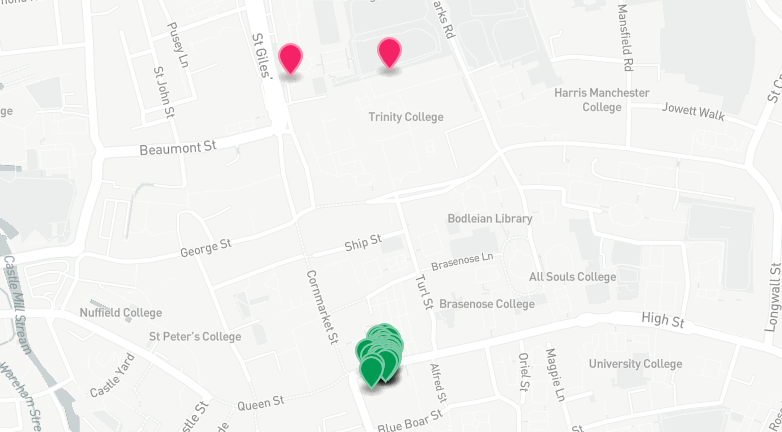
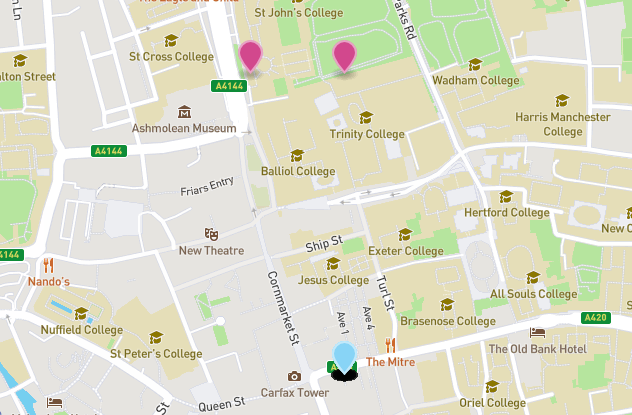
update map post

diff --git a/content/post/interactive-map-howto/index.md b/content/post/interactive-map-howto/index.md
@@ -28,25 +28,23 @@ image:
 projects: []
 ---
 
-Recently, I've been involved with the [AncientMetagenomeDir](https://github.com/spaam-community/ancientMetagenomeDir) project. Briefly, with this collaborative community effort, we aimed to regroup in one single repository, all the metadata about every single published ancient DNA metagenomics article, and make them [FAIR](https://en.wikipedia.org/wiki/FAIR_data).
+Recently, I've been involved with the [AncientMetagenomeDir](https://github.com/spaam-community/ancientMetagenomeDir) project. Briefly, with this collaborative community effort, we aimed to regroup in one single repository, all the metadata about every single published ancient DNA metagenomics article, and turn them into [FAIR](https://en.wikipedia.org/wiki/FAIR_data) scientific data.
 
-We ended with large `TSV` table files regrouping a standardized set of metadata, about each ancient DNA metagenomics sample. Because these are originally archeological data, one the information that is systematically collected is the geographical location of each sample.
+We ended with large `TSV` (table) files regrouping a standardized set of metadata, about each ancient DNA metagenomics sample. Because these are originally archeological data, one of the information that is systematically collected is the geographical location of each sample.
 
 While static maps were already generated for the [AncientMegenomeDir publication](https://doi.org/10.1101/2020.09.02.279570), we had the opportunity to play with interactive maps for the [website of the project](https://spaam-community.github.io/AncientMetagenomeDir/#/).
 
-Usually, hosting interactive elements online require some sort of a backend framework (like [Streamlit](https://www.streamlit.io/) or [Shiny](https://shiny.rstudio.com/)) to perform the rendering, however, I wanted to have it as serverless as possible, and this is where the [`GeoJSON` rendering function of GitHub](https://docs.github.com/en/free-pro-team@latest/github/managing-files-in-a-repository/mapping-geojson-files-on-github) came to the rescue.
+Usually, hosting interactive elements online require some sort of backend framework (like [Streamlit](https://www.streamlit.io/) or [Shiny](https://shiny.rstudio.com/)) to perform the rendering, however, I wanted to have it as serverless as possible, and this is where the [`GeoJSON` rendering function of GitHub](https://docs.github.com/en/free-pro-team@latest/github/managing-files-in-a-repository/mapping-geojson-files-on-github) came to the rescue.
 
-That meant that as long as I would push a [`GeoJSON`](https://geojson.org/) file on GitHub, it would automatically be rendered as an interactive map by GitHub, thanks to [Leaflet.js](https://leafletjs.com/).
+Using GitHub magic, that meant that as long as I would push a [`GeoJSON`](https://geojson.org/) file on GitHub, it would automatically be rendered as an interactive map, thanks to [Leaflet.js](https://leafletjs.com/).
 
 ## From TSV to GeoJSON
 
-The question that I was left with: How to go from a `TSV` table to a `GeoJSON` file. 
+The question that I was left with: How to go from a `TSV` table to a `GeoJSON` file ?
 Luckily for me, this is really easy to do thanks to [GeoPandas](https://geopandas.org/).  
-The only things I need were to make sure there were a `latitude` and `longitude` column.
+I only needed to make sure that there were a `latitude` and `longitude` columns in the `TSV` files.
 
-{{< figure src="coordinate-system.png" title="A caption" numbered="true" >}}
-
-{{< figure src="coordinate-system.png" title="test" >}}
+{{< figure src="coordinate-system.png" title="Geographic coordinate system, credit: [Wikipedia](https://en.wikipedia.org/wiki/Geographic_coordinate_system)" numbered="true" >}}
 
 ```python
 import pandas as pd
@@ -57,7 +55,7 @@ gdf = geopandas.GeoDataFrame(df, geometry=geopandas.points_from_xy(df.longitude,
 gdf.to_file("output.geo.json", driver='GeoJSON')
 ```
 
-> Instead of pushing to GitHub at every change to check the GeoJSON rendering, we can check our GeoJSON map with the [geojson.io](https://geojson.io/) website.
+> Instead of pushing to GitHub at every change to check a GeoJSON rendering, you can check a GeoJSON map with the [geojson.io](https://geojson.io/) website.
 
 ## Displaying more metadata on the map
 
@@ -65,26 +63,27 @@ So far, I only used the map to display the latitude and longitude of each sample
 
 Refering again the [Github documentation](https://docs.github.com/en/free-pro-team@latest/github/managing-files-in-a-repository/mapping-geojson-files-on-github#styling-features), this corresponds to the `marker-color`, `marker-size`, or `marker-symbol`.
 
-The only thing that we have to do, is add as column with the property name and the desired values (here `marker-color`)
+For example, to change the color, we add a `marker-color` column with the desired color value.
 
-| marker-color | publication_doi                 | site_name       | latitude | longitude | sample_name            | sample_age | material                | archive | archive_accession |
-| ------------ | ------------------------------- | --------------- | -------- | --------- | ---------------------- | ---------- | ----------------------- | ------- | ----------------- |
-| #009C54      | 10.1016/j.quascirev.2017.11.037 | Hässeldala Port | 56.16    | 15.01     | HA1.1                  | 13900      | lake sediment           | ENA     | SRS2040659        |
-| #C22026      | 10.3390/geosciences10070270     | Unknown         | 53.322   | 1.118     | ELF001A_95_S81_ELFM1D1 | 6000       | shallow marine sediment | ENA     | ERS3605424        |
+| **marker-color** | publication_doi                 | site_name       | latitude | longitude | sample_name            | sample_age | material                | archive | archive_accession |
+| ---------------- | ------------------------------- | --------------- | -------- | --------- | ---------------------- | ---------- | ----------------------- | ------- | ----------------- |
+| #009C54          | 10.1016/j.quascirev.2017.11.037 | Hässeldala Port | 56.16    | 15.01     | HA1.1                  | 13900      | lake sediment           | ENA     | SRS2040659        |
+| #C22026          | 10.3390/geosciences10070270     | Unknown         | 53.322   | 1.118     | ELF001A_95_S81_ELFM1D1 | 6000       | shallow marine sediment | ENA     | ERS3605424        |
 
-{{< figure src="/Users/borry/Documents/GitHub/maxibor.github.io/content/post/interactive-map-howto/coordinate-system.png" title="test" >}}
+**Table 1:** Sample data from the AncientMetagenomeDir repository
 
-<!-- ![marker-color](marker-color.png)   -->
+{{< figure src="marker-color.png" title="Markers are colored by property" numbered="true" >}}
 
-Here, markers in pink are host-associated single genomes, while markers in green are environmental metagenomes.
+Here, markers in pink are host-associated single genomes, while markers in light-blue are host-associated metagenomes.
 
 ## Preventing overlapping points
 
-As in this dataset, there are different samples coming from the sample archeological sites, it meant that I had to deal with exactly overlapping points because they share the exact same geographic coordinates.
+In this dataset, different samples are sometimes coming from a same archeological site. In practice, this means that points will overlap on the map because they share the exact same geographic coordinates.
+In Figure 2, for example, you can notice a very dark shadow bellow each marker: that's because there are many overlapping markers present on the spot.
 
-This is problematic for the map, because only one will be displayed, the other ones being hidden below.
+The problem is that only one marker will be displayed, and the other ones being hidden below.
 
-To overcome this issue, there is the clever little trick of slightly altering the coordinates of each sample to plot them as distinct points on the map. I do that with random sampling from the normal distribution using [numpy](https://numpy.org/doc/stable/reference/random/generated/numpy.random.normal.html) with a very small standard deviation.
+To overcome this issue, the little trick is to slightly alter the coordinates of each sample to plot them as distinct points on the map. I did that with random sampling from the normal distribution using [Numpy](https://numpy.org/doc/stable/reference/random/generated/numpy.random.normal.html) with a very small standard deviation.
 
 ```python
 import pandas as pd
@@ -93,6 +92,7 @@ import numpy as np
 
 df = pd.read_csv("table.tsv", sep="\t")
 
+sigma = 0.0015
 
 df['new_latitude'] = df['latitude'].apply(lambda x: np.random.normal(x, sigma))
 df['new_longitude'] = df['longitude'].apply(lambda x: np.random.normal(x, sigma))
@@ -101,3 +101,14 @@ gdf = geopandas.GeoDataFrame(df, geometry=geopandas.points_from_xy(df.new_longit
 
 gdf.to_file("output.geo.json", driver='GeoJSON')
 ```
+
+Problem solved !
+
+{{< figure src="marker-jitter.png" title="Overalapping markers are 'jittered' around the exact coordinates" numbered="true" >}}
+
+## End result
+
+Finally, thanks to the magic of GitHub GeoJSON rendering, the map can be easily embedded on any web page !
+
+<script src="https://embed.githubusercontent.com/view/geojson/SPAAM-community/AncientMetagenomeDir/master/assets/analysis/live/ancientmetagenomedir.geo.json?height=400&width=800"></script>  
+This is an interactive map, you can click on a marker to look at the details.
